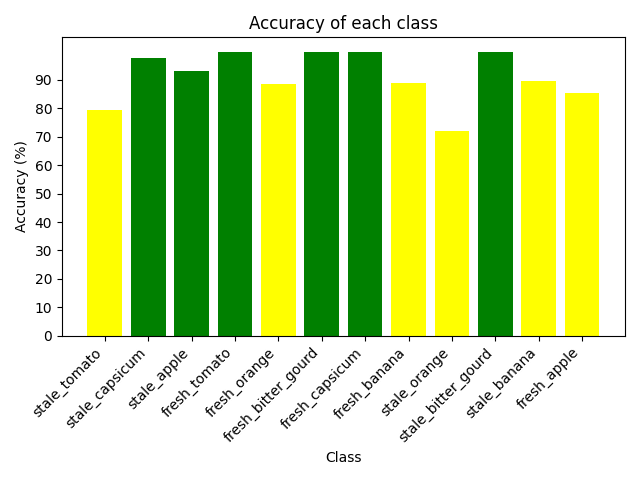
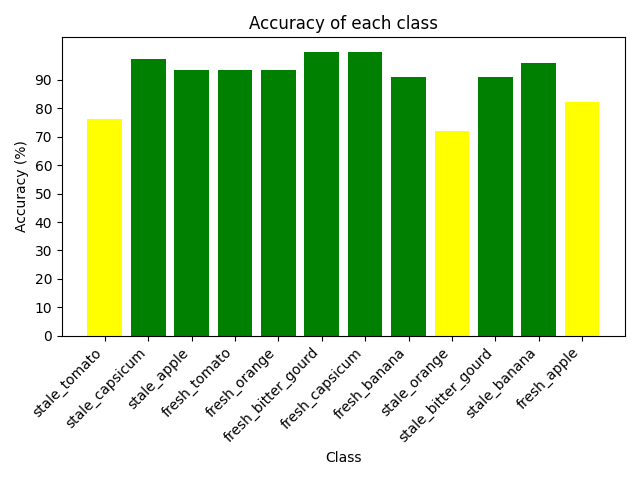
add more words

diff --git a/ML/torch_test.py b/ML/torch_test.py
@@ -51,10 +51,11 @@ with torch.no_grad():
 
 
 # Create confusion matrix
-confusion_matrix = metrics.confusion_matrix(all_labels, all_predicted)
+# Normalize the data
+confusion_matrix = metrics.confusion_matrix(all_labels, all_predicted, normalize='true')
 plt.figure(figsize=(10, 10))
 plt.imshow(confusion_matrix, interpolation='nearest', cmap=plt.cm.Reds)
-plt.title("Confusion Matrix")
+plt.title("Confusion Matrix (Normalized)")
 plt.colorbar()
 tick_marks = np.arange(len(classes))
 plt.xticks(tick_marks, classes, rotation=45, ha="right")
@@ -72,7 +73,7 @@ for classname, correct_count in correct.items():
 
 # Plot Accuracy of each class
 accs = [(100 * float(v) / total[c]) for c, v in correct.items()]
-bar_colors = ["green" if accuracy > 90 else "yellow" if accuracy > 50 else "red" for accuracy in accs]
+bar_colors = ["green" if accuracy > 90 else "yellow" if accuracy > 63 else "red" for accuracy in accs]
 plt.ioff()
 plt.figure()
 plt.bar(range(len(correct)), accs, align='center', color=bar_colors)
